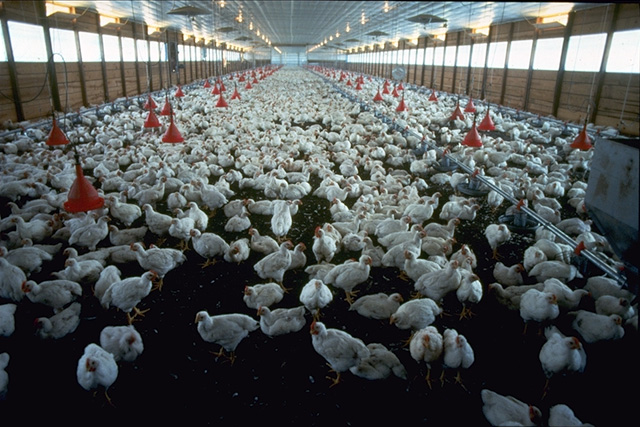
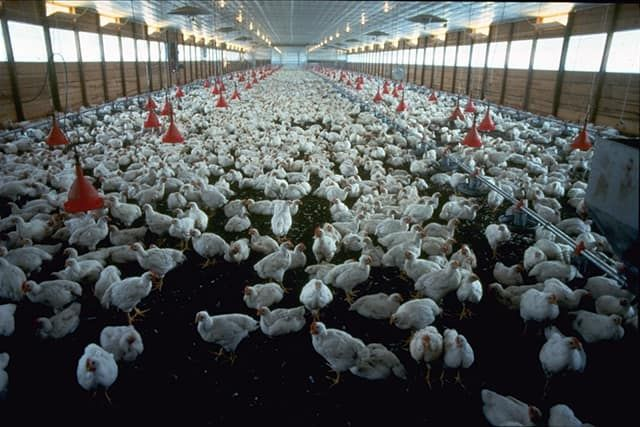
Fix Vercel Lambda: bundle public/images with API route and compress photos
- Add outputFileTracingIncludes to next.config.js so Vercel includes
  public/images/** in the generate-docx Lambda bundle (fixes logo,
  scoring table photos, and section photos not loading)
- Compress all photos from 4-19MB down to 18-208KB using sharp at
  max 1200x800 and JPEG quality 72 (prevents Lambda timeout/OOM)

diff --git a/dashboard/next.config.js b/dashboard/next.config.js
@@ -5,6 +5,9 @@ const nextConfig = {
       allowedOrigins: ['localhost:3000'],
     },
   },
+  outputFileTracingIncludes: {
+    '/api/courses/[courseId]/generate-docx': ['./public/images/**/*'],
+  },
 }
 
 module.exports = nextConfig
